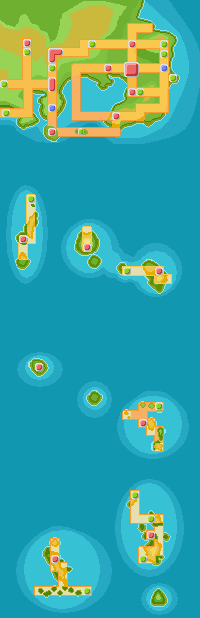
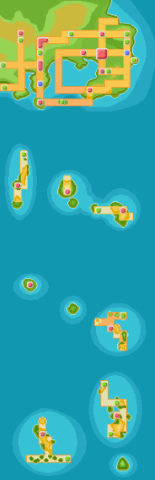
Berries completo

diff --git a/JS/pokemonBerries.js b/JS/pokemonBerries.js
@@ -45,16 +45,11 @@ function createBerrie(berrie) {
 
   const growth_time = document.createElement("p");
   growth_time.classList.add("growth_time");
-  growth_time.textContent =
-    "Tiempo Crecimiento: " + berrie.growth_time + " horas por etapa";
+  growth_time.textContent = "Crecimiento: " + berrie.growth_time + "h x etapa";
 
   const firmness = document.createElement("p");
   firmness.classList.add("firmness");
-  firmness.textContent = berrie.firmness.name;
-
-  const flavor = document.createElement("p");
-  flavor.classList.add("flavor");
-  flavor.textContent = sabor(berrie.flavors);
+  firmness.textContent = "Dureza: " + dureza(berrie.firmness.name);
 
   card.appendChild(spriteContainer);
   card.appendChild(number);
@@ -66,11 +61,16 @@ function createBerrie(berrie) {
 
   const size = document.createElement("p");
   size.classList.add("size");
-  size.textContent = "tamaño: " + berrie.size / 10 + "cm";
+  size.textContent = "Tamaño: " + berrie.size / 10 + "cm";
+
+  const flavorsName = document.createElement("div");
+  flavorsName.classList.add("flavors-name");
+  flavorsName.textContent = "Sabores";
 
   cardBack.appendChild(size);
   cardBack.appendChild(firmness);
-  cardBack.appendChild(flavor);
+  cardBack.appendChild(flavorsName);
+  cardBack.appendChild(berrieFlavors(berrie.flavors));
   cardContainer.appendChild(card);
   cardContainer.appendChild(cardBack);
   berrieContainer.appendChild(flipCard);
@@ -85,24 +85,57 @@ function removeChildNodes(parent) {
   }
 }
 
-function sabor(flavors) {
+function berrieFlavors(flavors) {
+  const flavorsContainer = document.createElement("div");
+  flavorsContainer.classList.add("flavors-container");
+
   for (let i = 0; i < flavors.length; i++) {
     const flavor = flavors[i];
+    const flavorN = document.createElement("div");
     if (flavor.potency != 0) {
       const items = new Map([
         ["spicy", "Picante"],
-        ["dry", "Seco"],
+        ["dry", "Seca"],
         ["sweet", "Dulce"],
-        ["bitter", "Amargo"],
-        ["sour", "Picante"],
+        ["bitter", "Amarga"],
+        ["sour", "Ácida"],
       ]);
+
+      const itemBackground = new Map([
+        ["spicy", "background-color-spicy"],
+        ["dry", "background-color-dry"],
+        ["sweet", "background-color-sweet"],
+        ["bitter", "background-color-bitter"],
+        ["sour", "background-color-sour"],
+      ]);
+
       if (items.has(flavor.flavor.name)) {
-        flavor.flavor.name = items.get(flavor.flavor.name);
+        flavorN.textContent = items.get(flavor.flavor.name);
+        flavorN.classList.add(itemBackground.get(flavor.flavor.name));
+        flavorsContainer.appendChild(flavorN);
       }
-      return flavor.flavor.name;
     }
   }
+  return flavorsContainer;
 }
+
+function dureza(texto) {
+  const types = new Map([
+    ["very-soft", "Muy blanda"],
+    ["soft", "Blanda"],
+    ["hard", "Dura"],
+    ["very-hard", "Muy Dura"],
+    ["super-hard", "Superdura"],
+  ]);
+  if (types.has(texto)) {
+    texto = types.get(texto);
+  }
+  return texto;
+}
+
+function ocultar(){
+  document.getElementById('obj1').style.display = 'none';
+  }
 
 function nombre(texto) {
   const types = new Map([
@@ -169,7 +202,7 @@ function nombre(texto) {
     ["micle", "Lagro"],
     ["custap", "Chiri"],
     ["jaboca", "Jaboca"],
-    ["rowap", "Magua"]
+    ["rowap", "Magua"],
   ]);
   if (types.has(texto)) {
     texto = types.get(texto);

diff --git a/CSS/berrieStyle.css b/CSS/berrieStyle.css
@@ -14,6 +14,10 @@ h1 {
   margin: 50px 30px;
 }
 
+.flavors-name {
+  font-weight: bold;
+}
+
 
 .berrie-container {
   display: grid;
@@ -37,11 +41,19 @@ h1 {
 .berrie-block p {
   margin: 5px;
 }
-
+.firmness{
+  text-transform: capitalize;
+  font-weight: bold;
+}
 .name {
   text-transform: capitalize;
   font-weight: bold;
   font-size: 1.2rem;
+}
+
+.size {
+  text-transform: capitalize;
+  font-weight: bold;
 }
 
 #spinner {
@@ -127,3 +139,54 @@ footer {
   grid-template-columns: 1fr 2fr;
   text-align: left;
 }
+
+.background-color-sour {
+  background: -webkit-linear-gradient(180deg, #9bcc50 50%, #9bcc50 50%);
+  background: -ms-linear-gradient(180deg, #9bcc50 50%, #9bcc50 50%);
+  background: -moz-linear-gradient(180deg, #9bcc50 50%, #9bcc50 50%);
+  background: -o-linear-gradient(180deg, #9bcc50 50%, #9bcc50 50%);
+  background: linear-gradient(180deg, #9bcc50 50%, #9bcc50 50%);
+  background-color: #9bcc50;
+  color: #212121;
+}
+
+.background-color-sweet {
+  background: -webkit-linear-gradient(180deg, #fdb9e9 50%, #fdb9e9 50%);
+  background: -ms-linear-gradient(180deg, #fdb9e9 50%, #fdb9e9 50%);
+  background: -moz-linear-gradient(180deg, #fdb9e9 50%, #fdb9e9 50%);
+  background: -o-linear-gradient(180deg, #fdb9e9 50%, #fdb9e9 50%);
+  background: linear-gradient(180deg, #fdb9e9 50%, #fdb9e9 50%);
+  background-color: #fdb9e9;
+  color: #212121;
+}
+
+.background-color-bitter {
+  background: -webkit-linear-gradient(180deg, #eed535 50%, #eed535 50%);
+  background: -ms-linear-gradient(180deg, #eed535 50%, #eed535 50%);
+  background: -moz-linear-gradient(180deg, #eed535 50%, #eed535 50%);
+  background: -o-linear-gradient(180deg, #eed535 50%, #eed535 50%);
+  background: linear-gradient(180deg, #eed535 50%, #eed535 50%);
+  background-color: #eed535;
+  color: #212121;
+}
+
+.background-color-dry {
+  background: -webkit-linear-gradient(180deg, #51c4e7 50%, #51c4e7 50%);
+  background: -ms-linear-gradient(180deg, #51c4e7 50%, #51c4e7 50%);
+  background: -moz-linear-gradient(180deg, #51c4e7 50%, #51c4e7 50%);
+  background: -o-linear-gradient(180deg, #51c4e7 50%, #51c4e7 50%);
+  background: linear-gradient(180deg, #51c4e7 50%, #51c4e7 50%);
+  background-color: #51c4e7;
+  color: #212121;
+}
+
+.background-color-spicy {
+  background: -webkit-linear-gradient(180deg, #e23737 50%, #e23737 50%);
+  background: -ms-linear-gradient(180deg, #e23737 50%, #e23737 50%);
+  background: -moz-linear-gradient(180deg, #e23737 50%, #e23737 50%);
+  background: -o-linear-gradient(180deg, #e23737 50%, #e23737 50%);
+  background: linear-gradient(180deg, #e23737 50%, #e23737 50%);
+  background-color: #e23737;
+  color: aliceblue;
+}
+

diff --git a/HTML/map.html b/HTML/map.html
@@ -2,21 +2,22 @@
 <html lang="en">
 
 <head>
-<meta charset="UTF-8">
-<meta http-equiv="X-UA-Compatible" content="IE=edge">
-<meta name="viewport" content="width=device-width, initial-scale=1.0">
-<title>Mapa</title>
-<link rel="stylesheet" href="../CSS/mapStyle.css">
-<link rel="stylesheet" href="../CSS/style.css">
-<link rel="preconnect" href="https://fonts.gstatic.com">
-<link href="https://fonts.googleapis.com/css2?family=Oswald:wght@400;700&display=swap" rel="stylesheet">
-<link href="https://cdn.jsdelivr.net/npm/bootstrap@5.0.0-beta3/dist/css/bootstrap.min.css" rel="stylesheet"
-    integrity="sha384-eOJMYsd53ii+scO/bJGFsiCZc+5NDVN2yr8+0RDqr0Ql0h+rP48ckxlpbzKgwra6" crossorigin="anonymous">
-<script src="https://cdn.jsdelivr.net/npm/bootstrap@5.0.0-beta3/dist/js/bootstrap.bundle.min.js"
-    integrity="sha384-JEW9xMcG8R+pH31jmWH6WWP0WintQrMb4s7ZOdauHnUtxwoG2vI5DkLtS3qm9Ekf"
-    crossorigin="anonymous"></script>
-<script src="../JS/pokemonMap.js"></script>
+    <meta charset="UTF-8">
+    <meta http-equiv="X-UA-Compatible" content="IE=edge">
+    <meta name="viewport" content="width=device-width, initial-scale=1.0">
+    <title>Mapa</title>
+    <link rel="stylesheet" href="../CSS/style.css">
+    <link rel="stylesheet" href="../CSS/mapStyle.css">
+    <link rel="preconnect" href="https://fonts.gstatic.com">
+    <link href="https://fonts.googleapis.com/css2?family=Oswald:wght@400;700&display=swap" rel="stylesheet">
+    <link href="https://cdn.jsdelivr.net/npm/bootstrap@5.0.0-beta3/dist/css/bootstrap.min.css" rel="stylesheet"
+        integrity="sha384-eOJMYsd53ii+scO/bJGFsiCZc+5NDVN2yr8+0RDqr0Ql0h+rP48ckxlpbzKgwra6" crossorigin="anonymous">
+    <script src="https://cdn.jsdelivr.net/npm/bootstrap@5.0.0-beta3/dist/js/bootstrap.bundle.min.js"
+        integrity="sha384-JEW9xMcG8R+pH31jmWH6WWP0WintQrMb4s7ZOdauHnUtxwoG2vI5DkLtS3qm9Ekf"
+        crossorigin="anonymous"></script>
+    <script src="../JS/pokemonMap.js"></script>
 </head>
+
 <body class="bodyMap">
     <h1 class="title">Poke-map </h1>
     <div>
@@ -34,7 +35,11 @@
             <option value="paldea">Paldea</option>
         </select>
     </div>
-    <img src="../IMG/inmap.png" id="regionSel">
+    <section>
+        <div>
+            <img src="../IMG/inmap.png" id="regionSel">
+        </div>
+    </section>
     <footer>
         <ul class="submenu">
             <li class="submenus__links"><a href="pokemonSearch.html">

diff --git a/HTML/pokemonSearch.html b/HTML/pokemonSearch.html
@@ -21,17 +21,16 @@
 
 <body class="bodySearch">
     <h1 class="title">Pokedex</h1>
-    <form class="search-bar">
-        <input type="text" placeholder="ingrese el número o nombre del pokemon" id="searchPKM" onchange="removeChildNodes(pokemonContainer),fetchPokemon(searchPKM.value.toLowerCase())">
-        <input type="button"value="Search">
-    </form>
+    <input type="text" placeholder="ingrese el número o nombre del pokemon" id="searchPKM"
+        onchange="removeChildNodes(pokemonContainer),fetchPokemon(searchPKM.value.toLowerCase())">
+    <input type="button" value="Search">
     <div class="pokemon-container"></div>
     <nav class="pagination" aria-label="...">
         <ul class="pagination">
             <li class="page-item" id="previous">
                 <a class="page-link" href="#" tabindex="-1">Anterior</a>
             </li>
-            <li class="page-item" id="next">
+            <li class="page-item" id="next" >
                 <a class="page-link" href="#">Siguiente</a>
             </li>
         </ul>
@@ -40,7 +39,7 @@
         <span class="visually-hidden">Loading...</span>
     </div>
     <script src="../JS/pokemonSrch.js"></script>
-    
+
     <footer>
         <ul class="submenu">
             <li class="submenus__links"><a href="pokemonSearch.html">

diff --git a/HTML/pokeBerries.html b/HTML/pokeBerries.html
@@ -7,7 +7,7 @@
     <title>Berries</title>
     <meta name="viewport" content="width=device-width, initial-scale=1" />
     <link rel="stylesheet" href="../CSS/berrieStyle.css" />
-    <!-- <script src="../JS/pokemonBerries.js"></script> -->
+
 </head>
 
 <body class="bodyBerries">
@@ -15,7 +15,9 @@
     <div>
         <input type="text" placeholder="ingrese el número o nombre del pokemon" id="searchBerries"
             onchange="removeChildNodes(berrieContainer),fetchBerry(searchBerries.value.toLowerCase())" />
-        <input type="button" onclick="fetchBerry(searchBerries.value)" value="Search" />
+        <input type="button" onclick="removeChildNodes(berrieContainer) ,fetchBerry(searchBerries.value)"
+            value="Search" />
+        <input type="button" value="Listar"/>
     </div>
     <img src="" id="nameBerrie">
     <div class="berrie-container"></div>

diff --git a/CSS/mapStyle.css b/CSS/mapStyle.css
@@ -1,3 +1,4 @@
+
 .bodyMap {
   background-color: #cf3f3f;
   align-items: flex-start;
@@ -11,7 +12,12 @@ h1 {
   margin: 50px 30px;
 }
 
+section div {
+  width:100%;
+  height: 100%;
+}
 img {
-  width: 50%;
-  height: auto;
+  object-fit:fill;
+  width: inherit;
+  height: inherit;
 }

diff --git a/HTML/pokeId.html b/HTML/pokeId.html
@@ -14,9 +14,6 @@
     <h1 class="title">
         Ficha Entrenador
     </h1>
-    <form class="search-bar">
-        <input type="text">
-    </form>
     <footer>
         <ul class="submenu">
             <li class="submenus__links"><a href="pokemonSearch.html">
